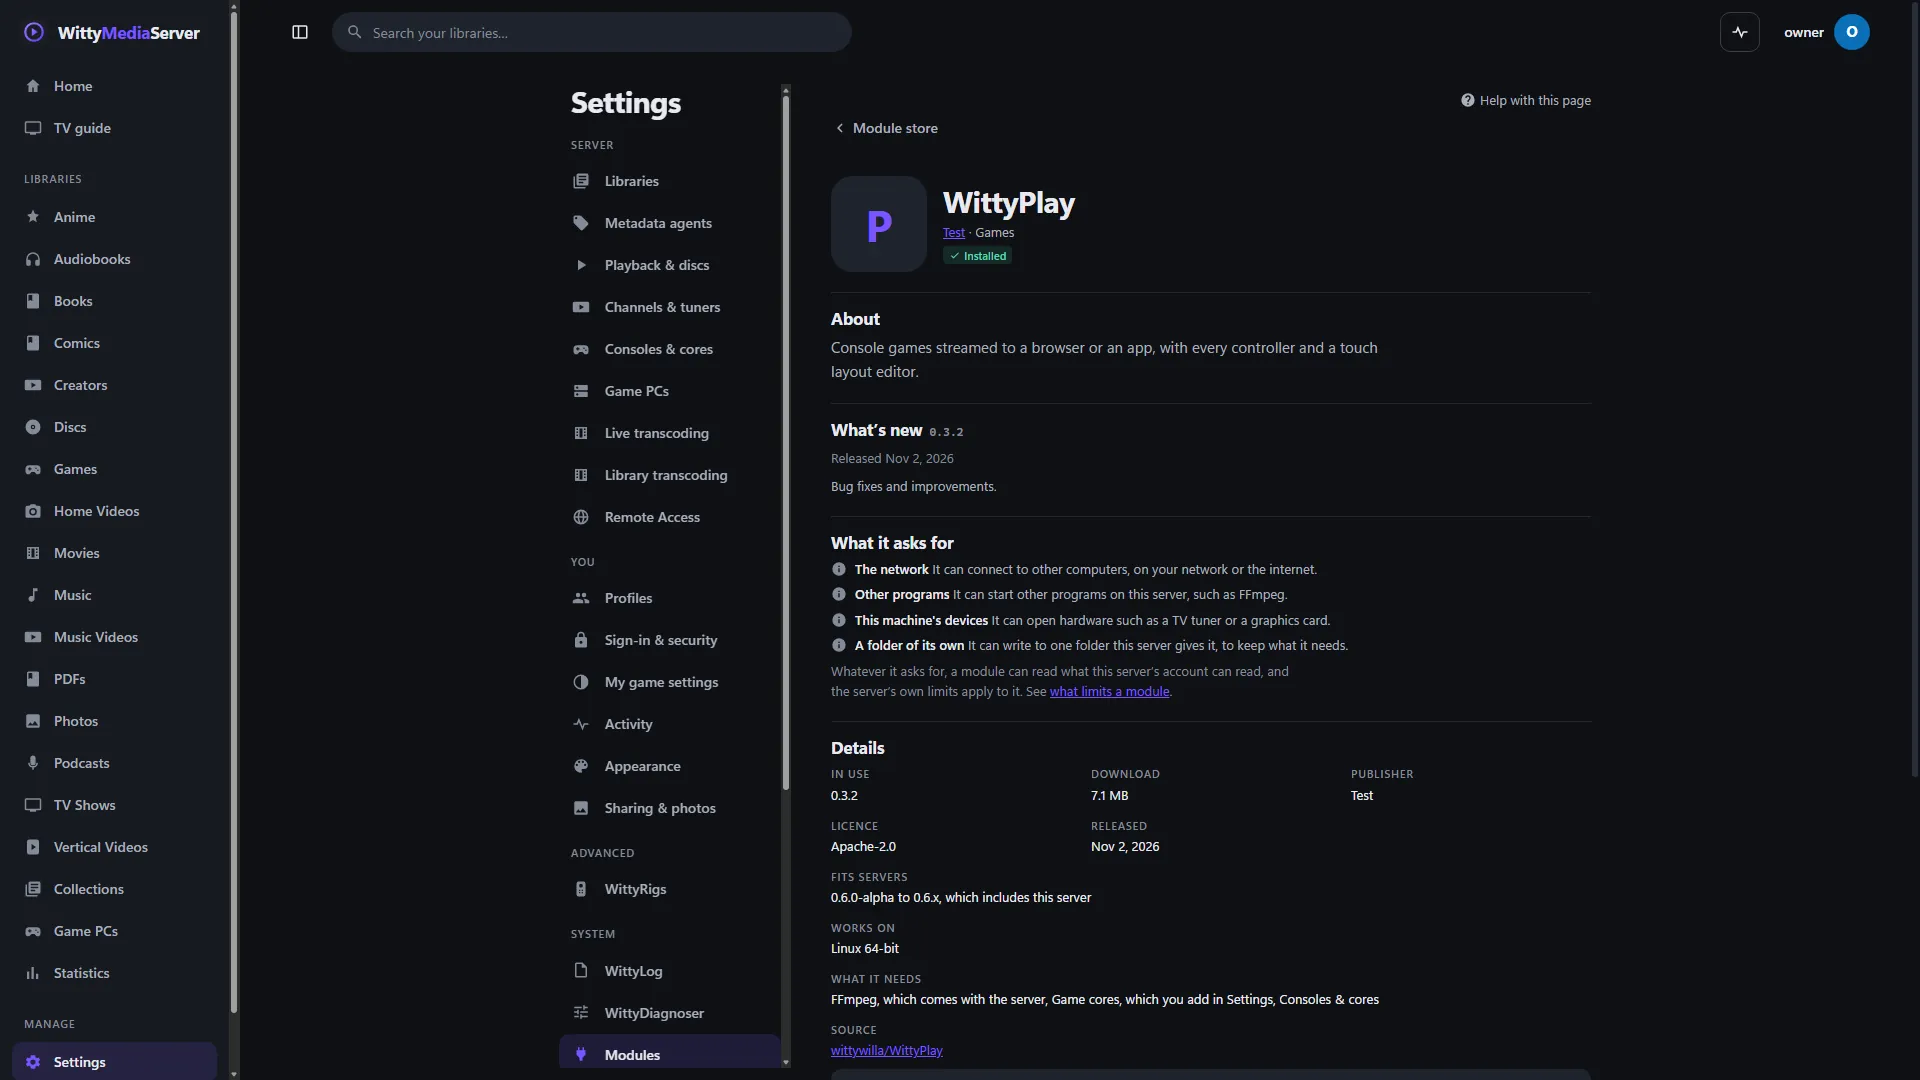
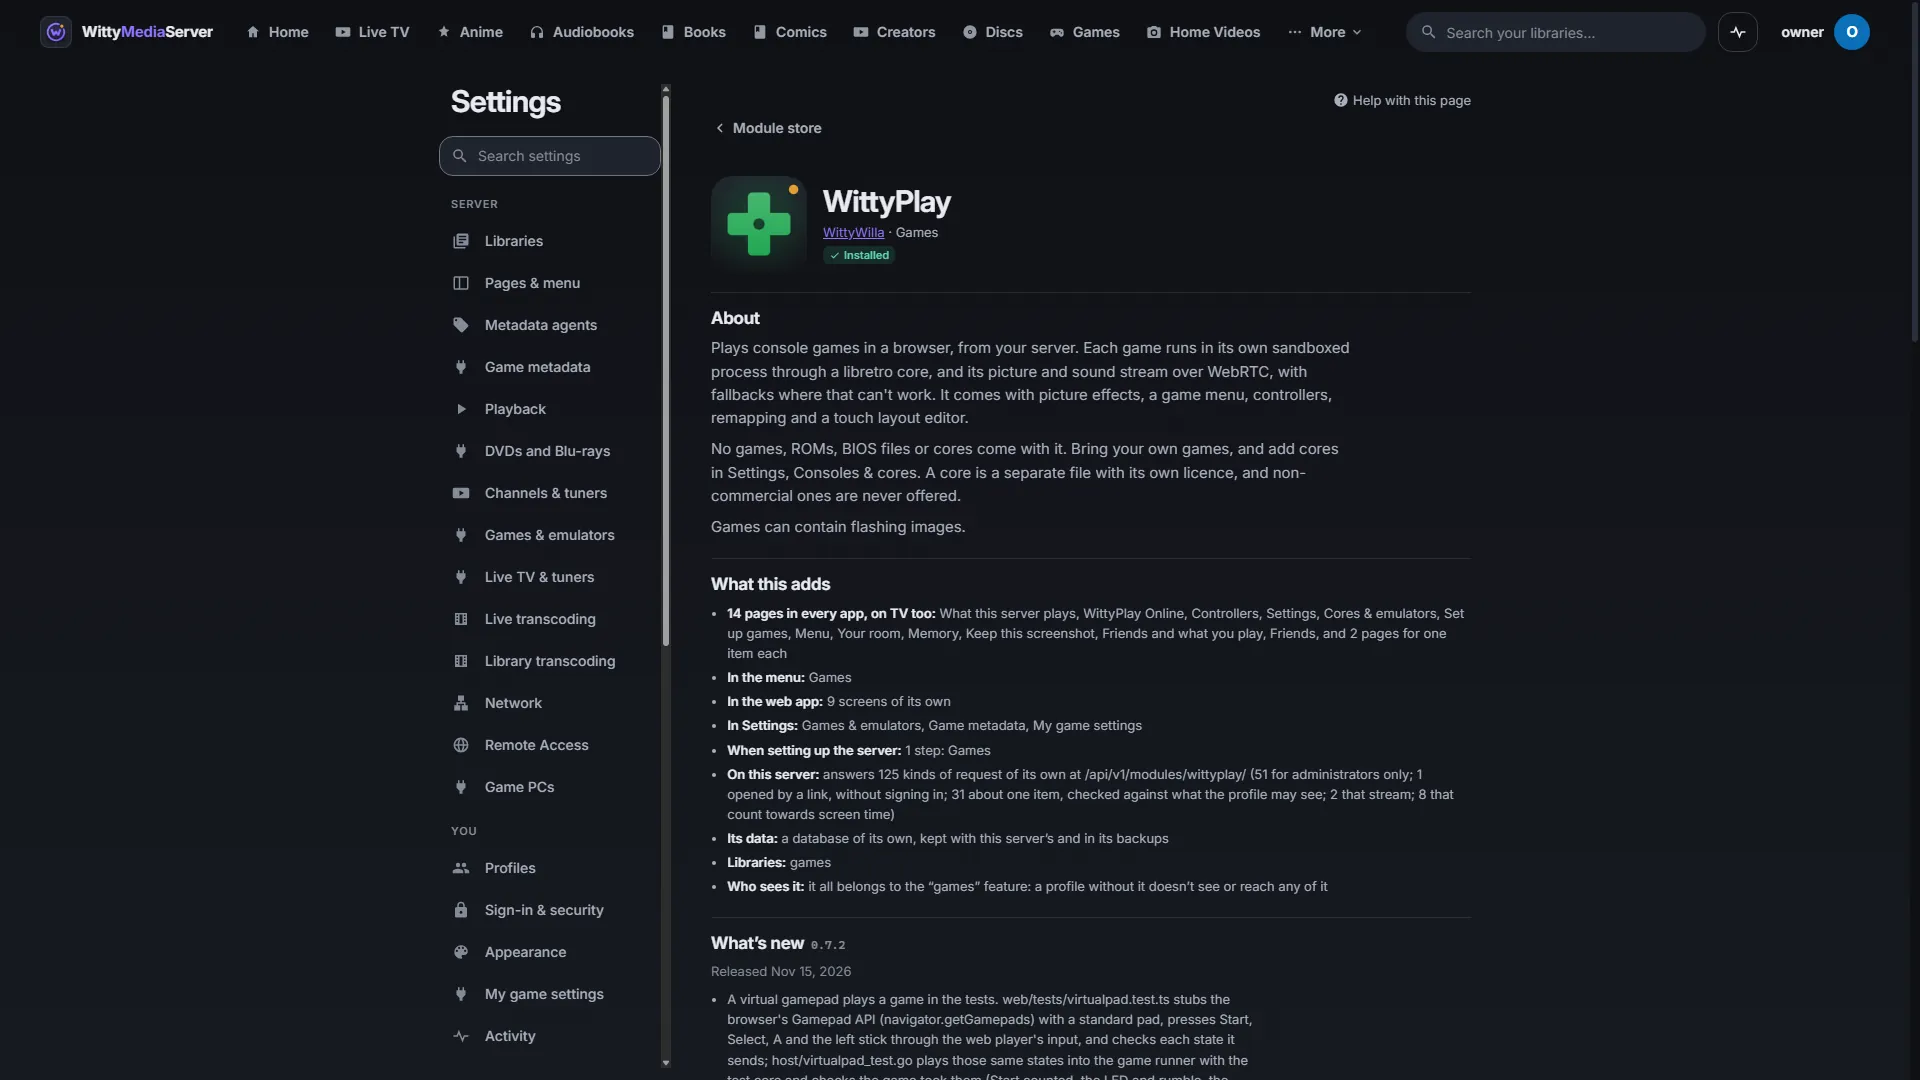
Pictures retaken from WittyMediaServer 0.8.0-alpha
The README's pictures, from a 0.8.0-alpha test server filled only with WittyDemoMedia, taken
with the server's own capture script (wittywilla/WittyMediaServer#358).

diff --git a/README.md b/README.md
@@ -8,7 +8,7 @@ What a WittyMediaServer plugin needs to be a project of its own: the manifest, t
 
 ![The module store in WittyMediaServer](docs/images/module-store.webp)
 
-<sub>What a module becomes: its entry in the store, here from a local test catalogue.</sub>
+<sub>What a module becomes: its entry in the store.</sub>
 
 ![A module's page in the store](docs/images/store-module.webp)
 

diff --git a/docs/images/CREDITS.md b/docs/images/CREDITS.md
@@ -4,5 +4,5 @@ Pictures taken from a test server of WittyMediaServer, filled with openly licens
 
 | Picture | What it shows |
 |---|---|
-| `module-store.webp` | What a module becomes: its entry in the store, here from a local test catalogue. |
+| `module-store.webp` | What a module becomes: its entry in the store. |
 | `store-module.webp` | A module's own page in the store. |
